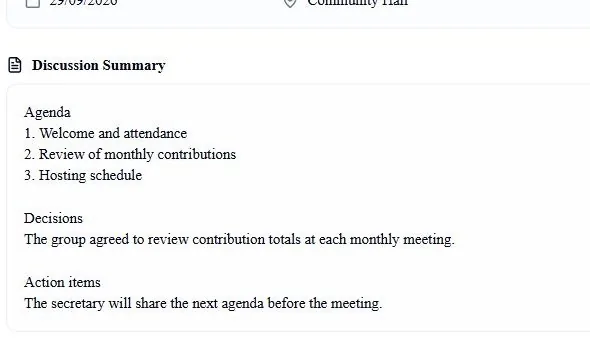
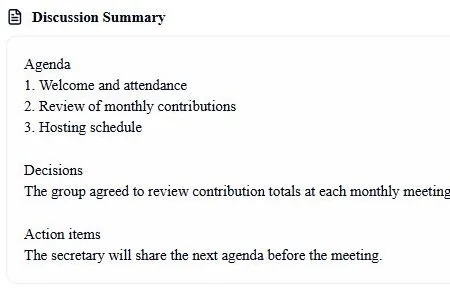
Tighten mobile minutes proof for readability

diff --git a/src/app/[locale]/page.tsx b/src/app/[locale]/page.tsx
@@ -109,7 +109,7 @@ export default async function LandingPage({ params }: { params: Promise<{ locale
             <figure className="vc-hero-visual">
               <div className="vc-screen-top"><span className="vc-screen-dot" /><span className="vc-screen-dot" /><span className="vc-screen-dot" /><span>{c.heroLabel}</span></div>
               <Image className="vc-hero-desktop-image" src={minutesImage} width={1288} height={570} alt={c.heroLabel} priority sizes="(max-width: 1100px) 55vw, 680px" />
-              <Image className="vc-hero-mobile-image" src={mobileMinutesImage} width={590} height={345} alt={c.heroLabel} priority sizes="(max-width: 760px) calc(100vw - 40px), 590px" />
+              <Image className="vc-hero-mobile-image" src={mobileMinutesImage} width={450} height={295} alt={c.heroLabel} priority sizes="(max-width: 760px) calc(100vw - 40px), 590px" />
               <figcaption>{c.illustrative} · <a href={minutesImage} target="_blank" rel="noopener noreferrer">{c.fullImage}</a></figcaption>
             </figure>
           </div>
